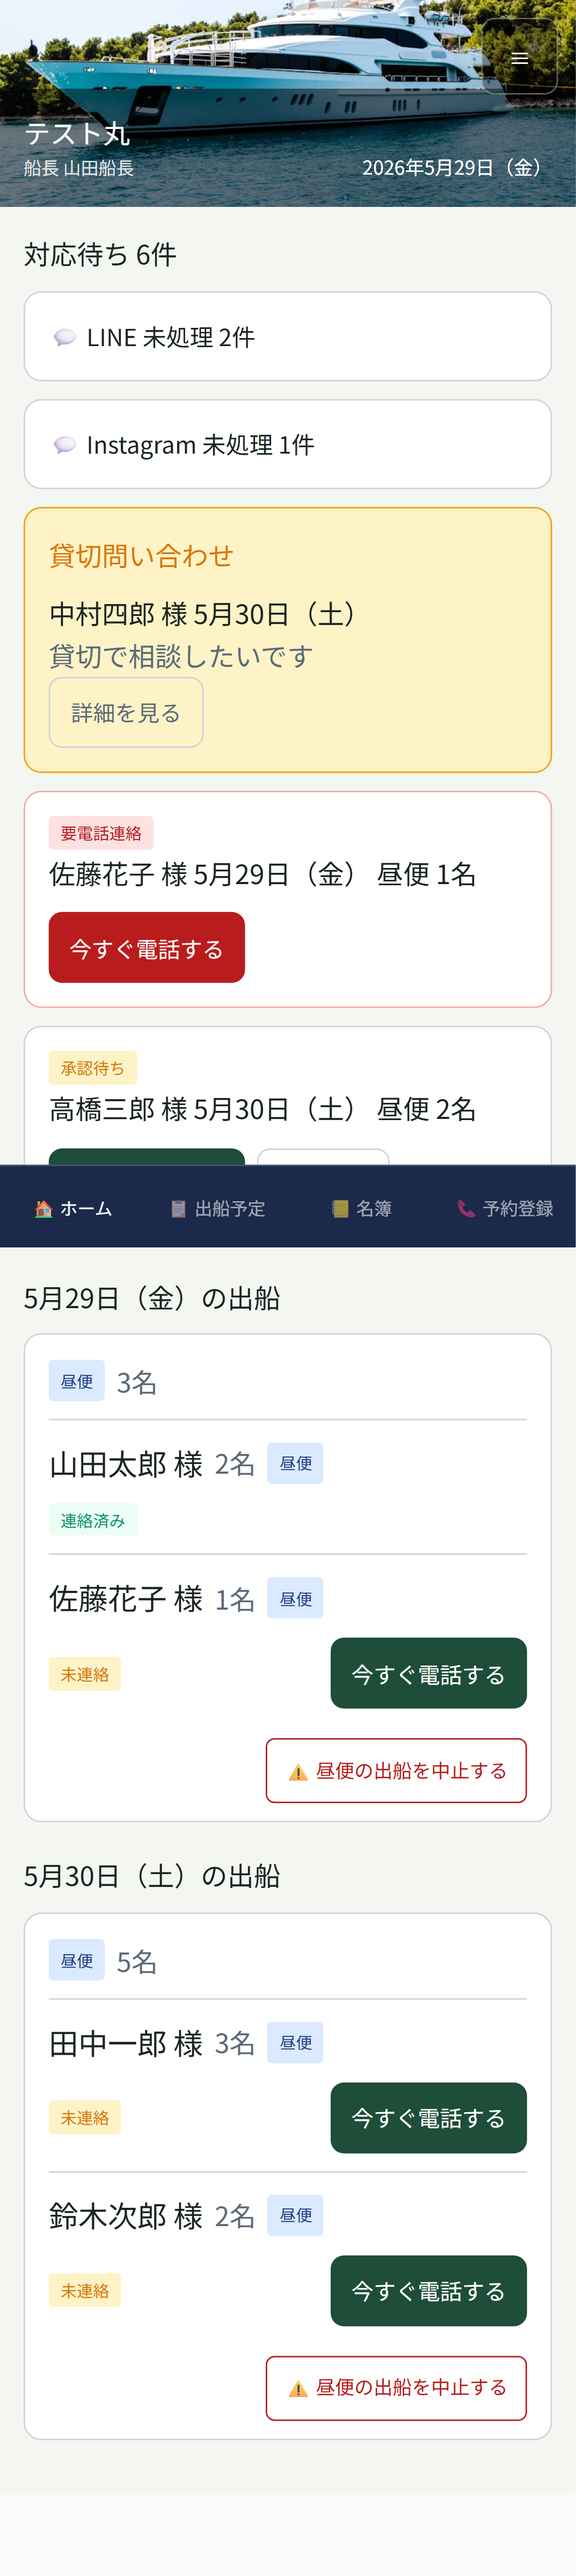
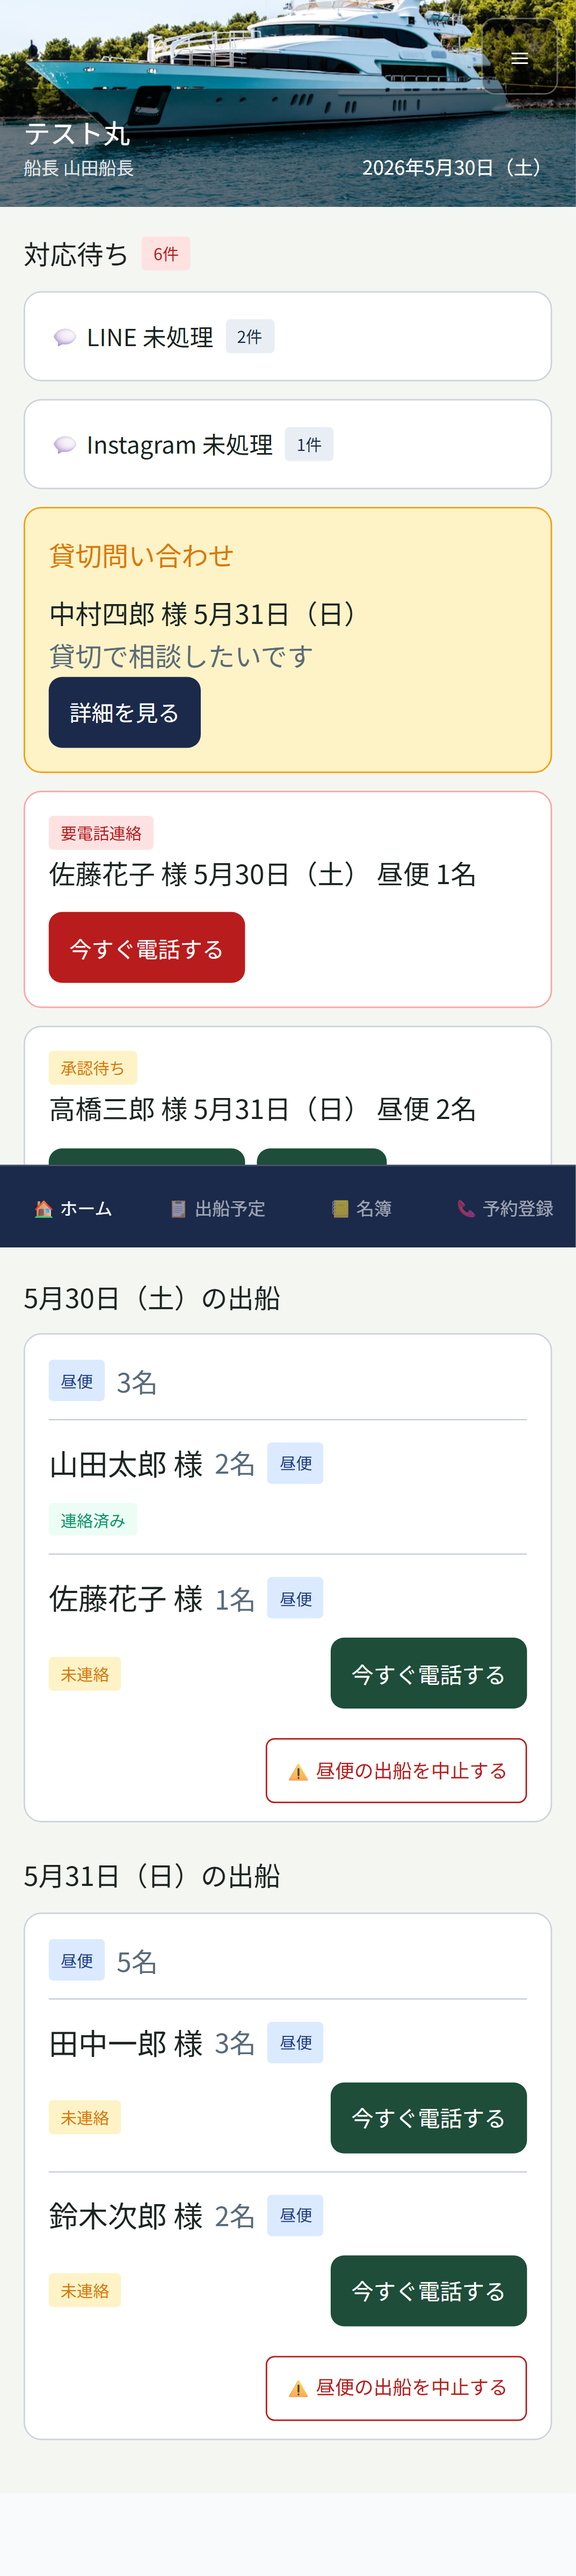
fix: ダッシュボード件数バッジカラーを調整

diff --git a/src/app/dashboard/page.tsx b/src/app/dashboard/page.tsx
@@ -235,15 +235,24 @@ export default function DashboardPage() {
       {notice && <CaptainCard className={styles.notice}>{notice}</CaptainCard>}
 
       <section className={styles.section}>
-        <h2 className={styles.sectionTitle}>対応待ち{waitingCount > 0 ? ` ${waitingCount}件` : ''}</h2>
+        <h2 className={`${styles.sectionTitle} ${styles.sectionTitleWithBadge}`}>
+          対応待ち
+          {waitingCount > 0 && <span className={`${styles.countBadge} ${styles.criticalCountBadge}`}>{waitingCount}件</span>}
+        </h2>
         {snsCounts.line > 0 && (
           <CaptainCard className={styles.snsCard} onClick={() => router.push('/dashboard/extract')}>
-            <div className={styles.snsTitle}>💬 LINE 未処理 {snsCounts.line}件</div>
+            <div className={styles.snsTitle}>
+              <span>💬 LINE 未処理</span>
+              <span className={`${styles.countBadge} ${styles.messageCountBadge}`}>{snsCounts.line}件</span>
+            </div>
           </CaptainCard>
         )}
         {snsCounts.instagram > 0 && (
           <CaptainCard className={styles.snsCard} onClick={() => router.push('/dashboard/extract')}>
-            <div className={styles.snsTitle}>💬 Instagram 未処理 {snsCounts.instagram}件</div>
+            <div className={styles.snsTitle}>
+              <span>💬 Instagram 未処理</span>
+              <span className={`${styles.countBadge} ${styles.messageCountBadge}`}>{snsCounts.instagram}件</span>
+            </div>
           </CaptainCard>
         )}
         {contacts.map(contact => (
@@ -251,7 +260,7 @@ export default function DashboardPage() {
             <div className={styles.contactLabel}>貸切問い合わせ</div>
             <div className={styles.contactTitle}>{contact.name || '名前未登録'} 様 {contact.preferred_date ? formatDate(contact.preferred_date) : ''}</div>
             <p className={styles.contactMessage}>{contact.message}</p>
-            <CaptainButton onClick={() => router.push('/dashboard/contact')} variant="secondary">詳細を見る</CaptainButton>
+            <CaptainButton className={styles.messageCheckButton} onClick={() => router.push('/dashboard/contact')}>詳細を見る</CaptainButton>
           </CaptainCard>
         ))}
         {actionable.map(booking => (
@@ -265,7 +274,7 @@ export default function DashboardPage() {
             {(booking.call_attempts || 0) > 0 && <p className={styles.callAttempts}>留守 {booking.call_attempts}回</p>}
             <div className={`${styles.wrapRow} ${styles.topGap}`}>
               {booking.tel && <CaptainButton className={booking.needs_call ? styles.urgentCallButton : undefined} onClick={() => beginCall(booking)}>今すぐ電話する</CaptainButton>}
-              {booking.status === 'pending' && <CaptainButton onClick={() => updateBooking(booking, { status: 'confirmed' })} variant="secondary">承認する</CaptainButton>}
+              {booking.status === 'pending' && <CaptainButton className={styles.bookingCheckButton} onClick={() => updateBooking(booking, { status: 'confirmed' })}>承認する</CaptainButton>}
             </div>
           </CaptainCard>
         ))}

diff --git a/src/app/dashboard/DashboardPage.module.css b/src/app/dashboard/DashboardPage.module.css
@@ -63,6 +63,30 @@
   margin: 0 0 10px;
 }
 
+.sectionTitleWithBadge {
+  align-items: center;
+  display: flex;
+  gap: 8px;
+}
+
+.countBadge {
+  border-radius: 3px;
+  display: inline-flex;
+  font-size: 11px;
+  font-weight: 500;
+  padding: 2px 8px;
+}
+
+.criticalCountBadge {
+  background: #fee2e2;
+  color: #b91c1c;
+}
+
+.messageCountBadge {
+  background: #e8eef4;
+  color: #1b2a4a;
+}
+
 .sectionHeader {
   align-items: center;
   display: flex;
@@ -139,9 +163,12 @@
 }
 
 .snsTitle {
+  align-items: center;
   color: #1a2420;
+  display: flex;
   font-size: 16px;
   font-weight: 500;
+  gap: 8px;
 }
 
 .needsCallCard {
@@ -165,6 +192,26 @@
 
 .urgentCallButton:hover {
   background: #991b1b;
+  color: #ffffff;
+}
+
+.bookingCheckButton {
+  background: #1e4d3a;
+  color: #ffffff;
+}
+
+.bookingCheckButton:hover {
+  background: #173d2e;
+  color: #ffffff;
+}
+
+.messageCheckButton {
+  background: #1b2a4a;
+  color: #ffffff;
+}
+
+.messageCheckButton:hover {
+  background: #132039;
   color: #ffffff;
 }
 
